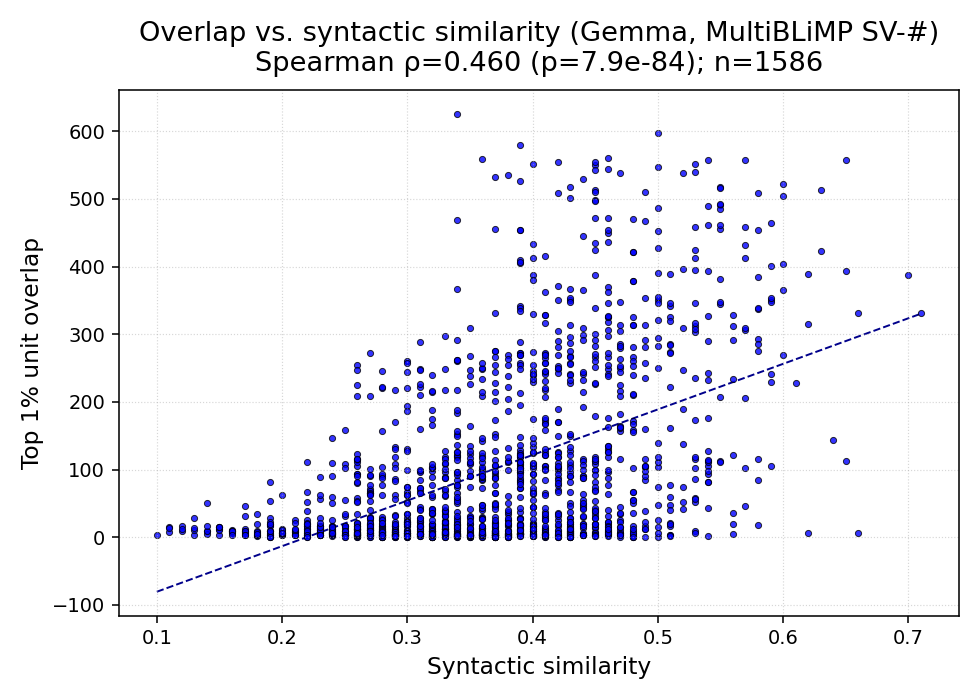
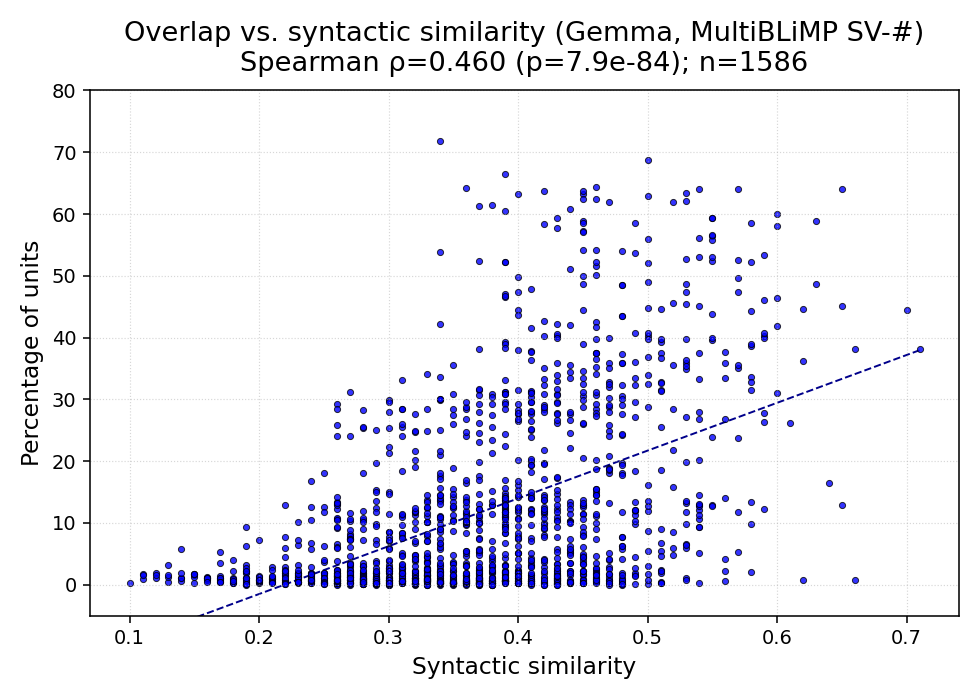
new multiblimp figure

diff --git a/multiblimp_plot.py b/multiblimp_plot.py
@@ -5,6 +5,8 @@ import numpy as np
 import matplotlib.pyplot as plt
 from scipy.stats import linregress
 
+from model_utils import get_num_blocks, get_hidden_dim
+
 dist_path = Path("multilingual/multiblimp/language_pair_distances.csv")
 overlap_path = Path("multilingual/multiblimp/cross-overlap_multiblimp_SV-#_gemma-3-4b-pt_1.0%.csv")
 out_path = "multilingual/multiblimp/overlap_vs_syntactic_distance"
@@ -53,6 +55,12 @@ merged = overlap_long.merge(
 mask = ~np.isclose(merged["syntactic_distance"].to_numpy(), 0.0, atol=1e-12)
 merged = merged.loc[mask].reset_index(drop=True)
 
+MODEL_NAME = "gemma-3-4b-pt"
+TARGET = 1.0
+TARGET_SET_SIZE = 0.01 * get_num_blocks(MODEL_NAME) * get_hidden_dim(MODEL_NAME)
+
+merged["overlap_pct"] = merged["overlap"] / TARGET_SET_SIZE * 100
+
 remaining_langs = pd.unique(merged[['lang_a', 'lang_b']].values.ravel())
 num_remaining = remaining_langs.size
 print(f"Number of unique languages: {num_remaining}")
@@ -60,7 +68,7 @@ print(f"Number of unique languages: {num_remaining}")
 fig, ax = plt.subplots(figsize=(7, 5), dpi=140)
 ax.scatter(
     1 - merged["syntactic_distance"],
-    merged["overlap"],
+    merged["overlap_pct"],
     alpha=0.8,
     edgecolor="black",
     linewidth=0.5,
@@ -70,12 +78,12 @@ ax.scatter(
 )
 
 ax.set_xlabel("Syntactic similarity", fontsize=12)
-ax.set_ylabel("Top 1% unit overlap", fontsize=12)
+ax.set_ylabel("Percentage of units", fontsize=12)
 
 from scipy.stats import spearmanr
 
 x = 1 - merged["syntactic_distance"].to_numpy()
-y = merged["overlap"].to_numpy()
+y = merged["overlap_pct"].to_numpy()
 n = len(merged)
 
 slope, intercept, r, p_lin, stderr = linregress(x, y)
@@ -90,6 +98,8 @@ title = "Overlap vs. syntactic similarity (Gemma, MultiBLiMP SV-#)"
 if np.isfinite(rho):
     title += f"\nSpearman ρ={rho:.3f} (p={pval:.3g}); n={n}"
 ax.set_title(title, pad=10, fontsize=14)
+
+ax.set_ylim(-5, 80)
 
 ax.grid(True, linestyle=":", linewidth=0.6, alpha=0.5)
 fig.tight_layout()
